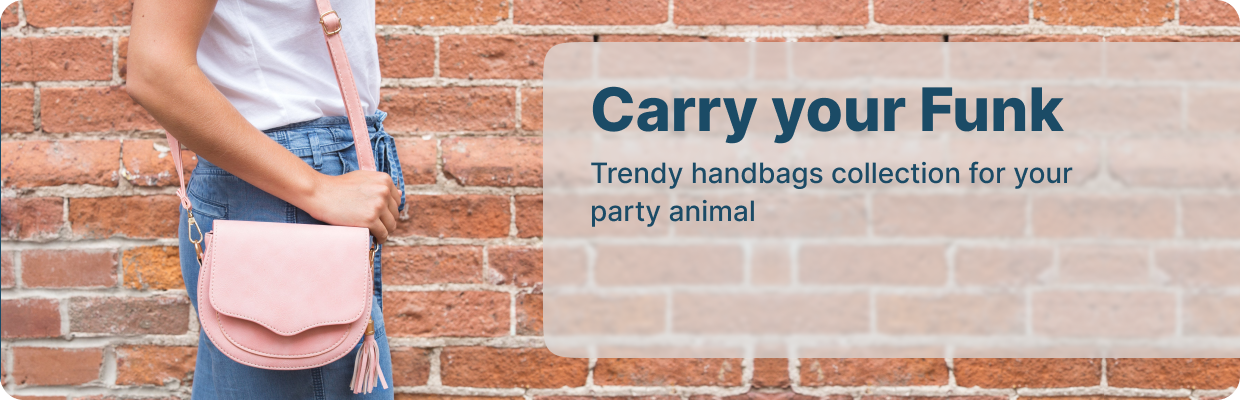
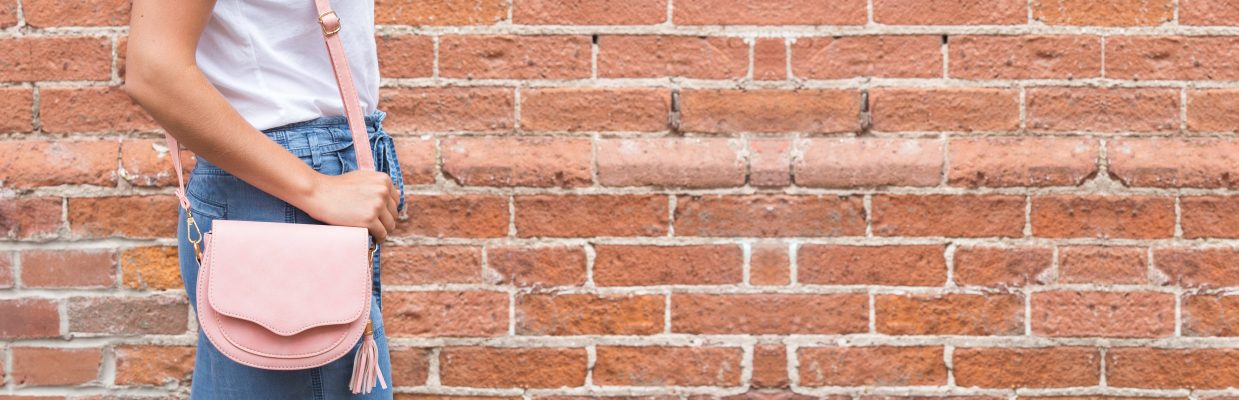
Refatorando o Hero para comportar um botao

diff --git a/coral/src/components/Hero/style.ts b/coral/src/components/Hero/style.ts
@@ -9,5 +9,73 @@ export const Container = styled.div`
 `;
 
 export const Img = styled.img`
+    border-radius: 24px;
+`
+export const Wrapper = styled.div`
+    position: absolute;
+    width: 77.5%;
+    display: flex;
+    justify-content: end;
 `
 
+export const Carry = styled.div`
+    width: 600px;
+    height: 316px;
+    background: rgba(222, 222, 222, 0.7);
+    backdrop-filter: blur(2.5px);
+
+    border-top-left-radius:24px ;
+    border-bottom-left-radius:24px ;
+
+    display: flex;
+    flex-direction: column;
+    
+`
+
+export const H1 = styled.h1`
+    width: 500px;
+    height: 30px;
+    font-style: normal;
+    font-weight: 800;
+    font-size: 55px;
+    line-height: 84px;
+    color: #1B4B66;
+    margin-left: 40px;
+    `
+
+export const H3 = styled.h3`
+    width: 500px;
+    height: 50px;
+    font-style: normal;
+    font-weight: 500;
+    font-size: 28px;
+    line-height: 38px;
+    color: #1B4B66;
+    margin-left: 40px;   
+    margin-top: 15px;
+    `
+
+export const Button = styled.div`
+    display: flex;
+    justify-content: center;
+    align-items: center;
+    flex-direction: row;    
+    background: #1B4B66;
+    width: 130px ;
+    height: 20px;
+    border-radius: 8px;
+    padding: 10px 20px;
+    color: white;
+    border: none;
+    outline: none;
+    margin-left: 40px;
+    margin-top: 15px;
+    `
+
+export const P = styled.p`
+    font-style: normal;
+    font-weight: 500;
+    font-size: 14px;
+    line-height: 15px;
+    margin-left: 5px;
+`

diff --git a/coral/src/components/Hero/Hero.tsx b/coral/src/components/Hero/Hero.tsx
@@ -1,10 +1,21 @@
-import { Container, Img } from "./style";
+import { Button, Carry, Container, H1, H3, Img, P, Wrapper } from "./style";
 import HeroImg from "../../assets/hero.png"
+import Arrow from "../../assets/arrow.svg"
 
-export function Hero(){
-    return(
+export function Hero() {
+    return (
         <Container>
             <Img src={HeroImg}></Img>
+            <Wrapper>
+                <Carry>
+                    <H1>Carry your Funk</H1>
+                    <H3>Trendy handbags collection for your party animal</H3>
+                    <Button>
+                        <img src={Arrow} alt="" />
+                        <P>See more</P>
+                    </Button>
+                </Carry>
+            </Wrapper>
         </Container>
     )
 }
